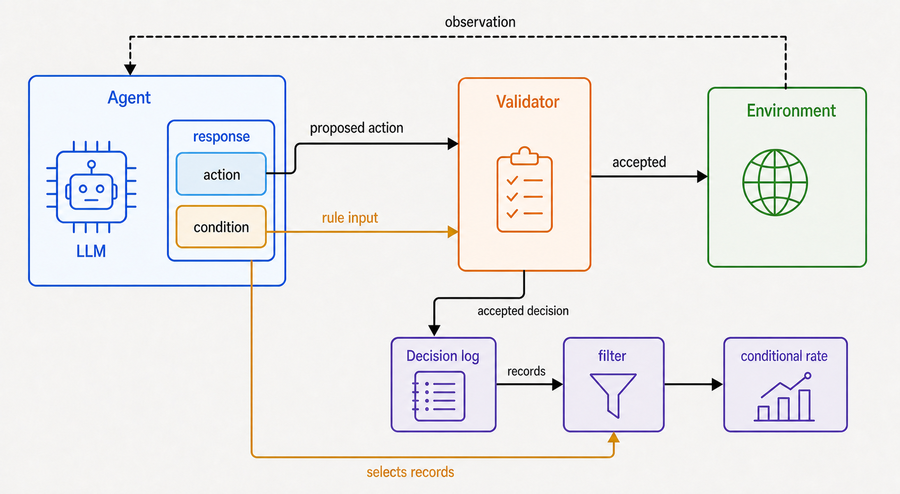
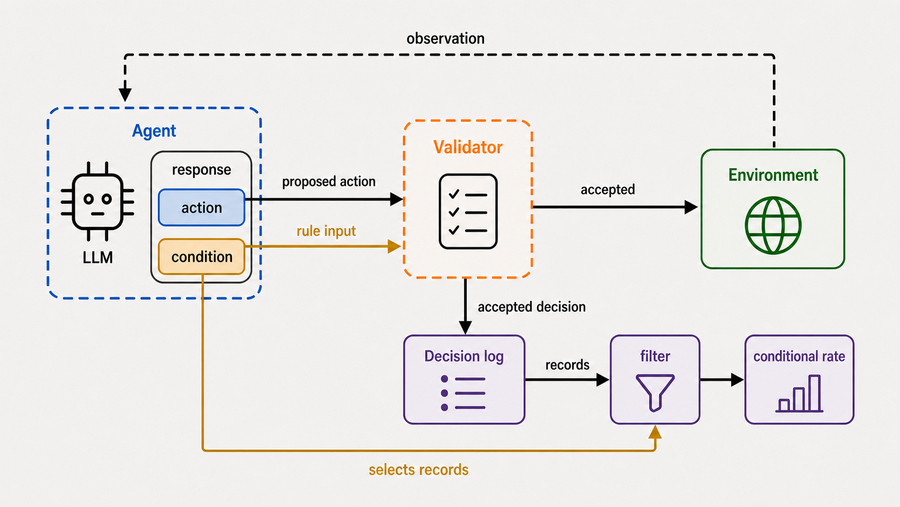
docs(paper): activate agent-paper v2 Figure 1
Regenerate Figure 1 from the audited ReAct, Reflexion, AgentSpec, and SWE-agent figure grammar. Keep the v2 source, active raster, print raster, manifest, handoff, and review records synchronized; anchor proposed action to action and preserve the direct condition-to-filter route.

Checks: figure builder PASS; geometry/hash PASS; manuscript static PASS with official TeX engine unavailable; evidence boundary PASS; code-reviewer APPROVE; adversarial visual review PASS. Official typeset PDF inspection remains an explicit open blocker.

Co-Reviewed-By: code-review skill (trigger 1: staged diff exceeds 50 LOC and touches more than 3 files)

Co-Reviewed-By: code-reviewer subagent (APPROVE)

Changed region(s): [[0.0311, 0.0304, 0.9644, 0.9717]]

diff --git a/ICLR2027/submission/source/figure1_agent_paper.py b/ICLR2027/submission/source/figure1_agent_paper.py
@@ -19,7 +19,7 @@ from PIL import Image
 
 
 ROOT = Path(__file__).resolve().parents[1]
-ASSET = ROOT / "figures" / "assets" / "figure1_architecture_compact_v1.png"
+ASSET = ROOT / "figures" / "assets" / "figure1_architecture_agentpaper_v2.png"
 ACTIVE = ROOT / "figures" / "active"
 OUT = ACTIVE / "figure1_concept"
 
@@ -60,9 +60,9 @@ def build() -> dict[str, object]:
         "print_sha256": print_sha256,
         "canvas_px": [width, height],
         "scale": 1,
-        "pdf_size_in": [6.35, 3.49],
-        "canvas_policy": "warm light-gray paper background; compact single-canvas runtime/measurement architecture with local semantic nodes and no pure-white cards",
-        "style": "generated agent-paper architecture inspired by ReAct, Reflexion, AgentSpec, and SWE-agent: one bounded agent response, an explicit validator insertion point, aligned decision logging, short relation labels, and restrained functional icons",
+        "pdf_size_in": [6.35, 3.58],
+        "canvas_policy": "warm light-gray paper background; compact AgentSpec-style ownership boundaries, tight-to-content nodes, and no pure-white cards",
+        "style": "generated agent-paper architecture inspired by ReAct, Reflexion, AgentSpec, and SWE-agent: one bounded agent response, action-aligned validator insertion, aligned decision logging, short relation labels, and restrained functional icons",
         "text": [
             "Agent", "LLM", "response", "action", "condition", "proposed action",
             "Validator", "rule input", "accepted", "Environment",

diff --git a/ICLR2027/submission/checks/figure1_geometry_check.py b/ICLR2027/submission/checks/figure1_geometry_check.py
@@ -88,9 +88,9 @@ def main() -> int:
             errors.append(f"labels exceed the short-figure limit: {too_long}")
 
         source_asset = ROOT / manifest.get("asset", "")
-        if source_asset.name != "figure1_architecture_compact_v1.png":
+        if source_asset.name != "figure1_architecture_agentpaper_v2.png":
             errors.append(
-                "generated Figure 1 source must remain the reviewed compact v1 asset: "
+                "generated Figure 1 source must remain the reviewed agent-paper v2 asset: "
                 f"{source_asset.name}"
             )
         expected_hashes = {

diff --git a/ICLR2027/submission/REVIEW_ROUNDS.md b/ICLR2027/submission/REVIEW_ROUNDS.md
@@ -318,7 +318,7 @@ Reflexion, AgentSpec, and SWE-agent: a bounded Agent response, a compact
 Validator insertion point, a separate Environment, and a small measurement
 chain.
 
-The selected compact v1 candidate removes the full-canvas lane frames and
+The selected compact v1 candidate removed the full-canvas lane frames and
 headers. Its black `proposed action` connector starts at the `action` field;
 the amber `rule input` connector starts at the right edge of `condition`; and
 the amber `selects records` route starts independently at the bottom edge of
@@ -327,10 +327,32 @@ the log, records flow through the filter, and the observation loop remains
 above the graph. The extra Environment database icon was removed so it cannot
 be confused with the Decision log.
 
-The active generated asset is
+At that historical stage, the active generated asset was
 `figures/assets/figure1_architecture_compact_v1.png`, staged through the normal
 builder. Full-size, paper-width, grayscale, and 900-pixel thumbnail inspection
-passed. The adversarial re-review of the exact current raster passed with no
-semantic, endpoint, overlap, or paper-grammar findings. Official typeset PDF
-inspection remains the release gate because the local environment still lacks a
-TeX engine.
+passed. The compact v1 candidate was then superseded by the agent-paper v2
+candidate to anchor `proposed action` directly to the `action` field. Official
+typeset PDF inspection remains the release gate because the local environment
+still lacks a TeX engine.
+
+## Round 18: agent-paper v2 active integration and endpoint audit
+
+The compact v1 candidate was not retained as the final design. A fresh
+generated candidate was produced from the paper grammar audit: a small dashed
+Agent ownership boundary, a tight response object, a compact Validator
+insertion point, a small Environment node, and a short lower log/filter chain.
+The highlighted `condition` field has two explicit uses: `rule input` enters
+the Validator before execution, while `selects records` enters the filter
+without passing through the Decision log. The black `proposed action` arrow
+was then regenerated so its visible origin is the `action` field itself.
+
+The active generated source is
+`figures/assets/figure1_architecture_agentpaper_v2.png`, with SHA-256
[1 lines of base64/hex data omitted]
+The builder copied the same raster into the manuscript-facing PNG and print
+PNG. Full-size, paper-width, grayscale, and 900-pixel thumbnail inspection
+passed. The adversarial review of the exact active files passed all endpoints,
+overlap checks, information-density checks, and paper-grammar checks; it also
+confirmed that the single-headed dashed observation return is directionally
+unambiguous. Official typeset PDF inspection remains open because the local
+environment still lacks a TeX engine.

diff --git a/ICLR2027/submission/HANDOFF.md b/ICLR2027/submission/HANDOFF.md
@@ -30,7 +30,7 @@ strengthen ICLR generality; no new experiment has yet been run in this package.
 | Anonymous manuscript | `paper\manuscript.tex` |
 | Bibliography | `paper\references.bib` |
 | Figures cited by TeX | `figures\active\` |
-| Figure 1 generated asset | `figures\assets\figure1_architecture_compact_v1.png` |
+| Figure 1 generated asset | `figures\assets\figure1_architecture_agentpaper_v2.png` |
 | Figure 1 staging builder | `source\figure1_agent_paper.py` |
 | Figure 1 builder | `source\figure1_overlay.py` (compatibility entry point) |
 | Figure 1 manifest | `figures\active\figure1_concept.json` |
@@ -46,7 +46,7 @@ strengthen ICLR generality; no new experiment has yet been run in this package.
 
 `figures\active\` is the only directory whose rendered files may be included
 by `paper\manuscript.tex`. `figures\candidates\` contains non-active
-alternatives. `figures\assets\figure1_architecture_compact_v1.png` is the
+alternatives. `figures\assets\figure1_architecture_agentpaper_v2.png` is the
 reviewed source asset for the active generated Figure 1. Legacy and
 intermediate versions are under `figures\candidates\legacy\figure1\` and
 `figures\candidates\architecture-reset-round\`.
@@ -60,18 +60,19 @@ contains a response with `action` and `condition`, the `Validator` sits before
 condition takes a separate amber route directly to `filter`, while logged
 records enter the filter through `records` and feed `conditional rate`.
 
-The active composition is the compact v1 architecture generated after
+The active composition is the agent-paper v2 architecture generated after
 auditing ReAct, Reflexion, AutoGen, AgentSpec, SWE-agent, Voyager, and
 Magentic-One. It uses a single warm-gray canvas with local semantic nodes,
 keeps the response inside the Agent boundary, aligns the accepted-decision
-arrow with `Decision log`, and routes the shared condition directly to
+arrow with `Decision log`, anchors `proposed action` to `action`, and routes the shared condition directly to
 `filter`. It also uses short relation labels, black primary routes, a small
 LLM cue, semantic flat fills, and a top dashed `observation` return lane. The earlier
 dashboard-like and D-v3 compositions are historical and preserved under
 `figures\candidates\legacy\figure1\` and
 `figures\candidates\architecture-reset-round\`.
 
-The generated asset (compact v1, with `proposed action`, an aligned
+The generated asset (agent-paper v2, with `proposed action` anchored at
+`action`, an aligned
 `accepted decision` arrow, direct condition-to-filter routing, and a
 non-crossing observation loop) is visually reviewed at full size, paper-width
 preview, grayscale, and thumbnail size.

diff --git a/ICLR2027/submission/README.md b/ICLR2027/submission/README.md
@@ -22,7 +22,7 @@ paper. Read this file first when returning to the project.
 | Manuscript | `paper/manuscript.tex` |
 | Bibliography | `paper/references.bib` |
 | Figures cited by the manuscript | `figures/active/` |
-| Figure 1 generated asset | `figures/assets/figure1_architecture_compact_v1.png` |
+| Figure 1 generated asset | `figures/assets/figure1_architecture_agentpaper_v2.png` |
 | Figure 1 staging builder | `source/figure1_agent_paper.py` |
 | Figure 1 builder entry point | `source/figure1_overlay.py` compatibility entry point |
 | Figure 1 geometry check | `checks/figure1_geometry_check.py` |
@@ -32,15 +32,15 @@ paper. Read this file first when returning to the project.
 The files in `figures/candidates/` are alternatives only. They are not
 submission figures and must never be referenced by `manuscript.tex`. The
 active Figure 1 is the generated compact composition staged from
-`figures/assets/figure1_architecture_compact_v1.png`.
+`figures/assets/figure1_architecture_agentpaper_v2.png`.
 It follows the reset audit in `AGENT_ARCHITECTURE_FIGURE_RESET.md`: a compact
 Agent → Validator → Environment path, a separate accepted-decision log path,
 and a direct condition → filter route. The observation return is routed above
 the modules so it does not cross the measurement paths.
 
-The current compact v1 places the response inside the Agent boundary and
-aligns the accepted-decision arrow with the Decision log in the compact lower
-measurement path.
+The current agent-paper v2 places the response inside the Agent boundary,
+anchors `proposed action` to the `action` field, and aligns the accepted-
+decision arrow with the Decision log in the compact lower measurement path.
 
 ## Figure workflow
 

diff --git a/ICLR2027/submission/AGENT_ARCHITECTURE_FIGURE_RESET.md b/ICLR2027/submission/AGENT_ARCHITECTURE_FIGURE_RESET.md
@@ -5,8 +5,8 @@
 The earlier D-v3 checkpoint is retired as a design direction. It still reads
 like a colorful inventory of modules: the execution path, measurement path,
 icons, and feedback loop have comparable visual weight. A reviewer must decode
-the layout before seeing the paper's point. The selected compact v1 figure is a
-new single-canvas composition designed from the architecture grammars used in
+the layout before seeing the paper's point. The selected agent-paper v2 figure
+is a new compact composition designed from the architecture grammars used in
 agent papers, not a recolor of the old composition.
 
 ## Message to communicate
@@ -93,11 +93,12 @@ checkpoint.
    highlighted condition to two clearly separated consumers, validator and
    filter, while the action path remains the primary left-to-right trajectory.
 
-The active compact v1 asset is the aligned single-canvas form: the response
-remains inside the Agent boundary, the accepted-decision arrow lands directly
-on the Decision log, and the condition route passes below the log before
-entering the filter. The upper and lower paths are expressed by placement and
-connectors, not by full-canvas lane frames or header banners.
+The active agent-paper v2 asset is the compact ownership-boundary form: the
+response remains inside the Agent boundary, the `proposed action` arrow starts
+at the `action` field, the accepted-decision arrow lands directly on the
+Decision log, and the condition route passes below the log before entering the
+filter. The upper and lower paths are expressed by placement and connectors,
+not by full-canvas lane frames or header banners.
 
 ## Visual constraints
 

diff --git a/ICLR2027/submission/SOURCE_OF_TRUTH.md b/ICLR2027/submission/SOURCE_OF_TRUTH.md
@@ -7,7 +7,7 @@ The active release is the directory containing this file:
 
 - Manuscript source: `paper\manuscript.tex`
 - Bibliography: `paper\references.bib`
-- Figure 1 generated asset: `figures\assets\figure1_architecture_compact_v1.png`
+- Figure 1 generated asset: `figures\assets\figure1_architecture_agentpaper_v2.png`
 - Figure 1 staging builder: `source\figure1_agent_paper.py`
 - Figure 1 compatibility entry point: `source\figure1_overlay.py`
 - Figure 1 contract: `AGENT_ARCHITECTURE_FIGURE_RESET.md`
@@ -35,7 +35,7 @@ submission/
   paper/                 manuscript and bibliography
   figures/active/        only figures referenced by manuscript.tex
   figures/assets/        canonical generated source asset plus historical assets;
-                          only the named compact v1 asset feeds the active builder
+                          only the named agent-paper v2 asset feeds the active builder
   figures/candidates/    non-submission alternatives; never referenced by TeX
   source/                deterministic figure builder and ICLR style files
   checks/                static, geometry, evidence, and reproducibility checks

diff --git a/ICLR2027/submission/figures/candidates/architecture-reset-round/README.md b/ICLR2027/submission/figures/candidates/architecture-reset-round/README.md
@@ -21,9 +21,11 @@ kept for design provenance and are never referenced by the manuscript.
   intermediate before action-edge alignment.
 - `figure1_candidate_D_final_generated_v3.png`: historical D-v3 generated
   candidate; it was the previous active source before the compact v1 reset.
-- `figure1_architecture_compact_v1.png`: current compact single-canvas candidate;
-  the reviewed source is copied to `figures/assets/` and staged as the active
-  manuscript figure.
+- `figure1_architecture_compact_v1.png`: historical compact single-canvas
+  candidate; it was superseded by the agent-paper v2 source below.
+- `figure1_architecture_agentpaper_v2.png`: current compact ownership-boundary
+  candidate; the reviewed source is copied to `figures/assets/` and staged as
+  the active manuscript figure.
 - `legacy_asset_D_v1.png` and `legacy_asset_D_v2.png`: duplicate intermediate
   source copies retained only for provenance.
 

diff --git a/ICLR2027/submission/figures/candidates/agent-paper-round/README.md b/ICLR2027/submission/figures/candidates/agent-paper-round/README.md
@@ -3,7 +3,7 @@
 These candidates were generated after comparing the rendered figures in
 ReAct, Reflexion, AutoGen, and AgentSpec. This is a historical candidate round
 only; none of the files below is active and none is a regeneration source for
-the current compact v1 figure.
+the current agent-paper v2 figure.
 
 - `figure1_candidate_A_loop.png`: rejected; the `rule input` label was placed
   on the wrong downstream arrow and the condition-to-Validator relation was
@@ -25,5 +25,5 @@ The historical F image was copied to
 `figures/assets/figure1_generated_full_final.png` and staged by an earlier
 builder. All labels, arrows, and icons remain part of the generated raster,
 but the D-v3 source is now historical. The active source is
-`figures/assets/figure1_architecture_compact_v1.png`, documented in the
+`figures/assets/figure1_architecture_agentpaper_v2.png`, documented in the
 submission-level reset contract.

diff --git a/ICLR2027/submission/supplement/FIGURE_REGENERATION.md b/ICLR2027/submission/supplement/FIGURE_REGENERATION.md
@@ -9,11 +9,11 @@ python ICLR2027\submission\source\figure1_overlay.py
 python ICLR2027\submission\checks\figure1_geometry_check.py
 ```
 
-Figure 1 is the reviewed compact v1 generated composition based on the reset
+Figure 1 is the reviewed agent-paper v2 generated composition based on the reset
 agent-paper architecture audit. It uses local semantic nodes, an explicit
 Validator insertion point, an accepted-decision arrow aligned to Decision log,
 and a direct condition-to-filter route. The builder stages
-`figures/assets/figure1_architecture_compact_v1.png`; it does not redraw or edit
+`figures/assets/figure1_architecture_agentpaper_v2.png`; it does not redraw or edit
 the image. The geometry check verifies the generated asset and dimensions,
 while text/arrow separation requires the documented visual review because
 those pixels are not machine-addressable geometry.

diff --git a/ICLR2027/submission/SUBMISSION_CHECKLIST.md b/ICLR2027/submission/SUBMISSION_CHECKLIST.md
@@ -8,7 +8,7 @@
 - [x] Main text uses the ICLR 2027 conference style and has no final-copy switch.
 - [x] Abstract, introduction, methods, results, limitations, conclusion,
       bibliography, AI-use, ethics, and reproducibility sections are present.
-- [x] Figure 1 compact v1 has short labels, an action-aligned `proposed action`
+- [x] Figure 1 agent-paper v2 has short labels, an action-aligned `proposed action`
       route, an explicit `accepted decision` arrow that terminates on the
       aligned log, a direct condition-to-filter route, and a non-crossing
       observation loop.

diff --git a/ICLR2027/submission/figures/README.md b/ICLR2027/submission/figures/README.md
@@ -16,7 +16,7 @@ generated raster; it is not an additional paper figure.
 ## Source and alternatives
 
 - `assets/` contains the reviewed full generated Figure 1 asset and historical
-  generation intermediates. Only `figure1_architecture_compact_v1.png` feeds
+  generation intermediates. Only `figure1_architecture_agentpaper_v2.png` feeds
   the active builder.
 - `candidates/` contains the agent-paper candidates and retired Figure 1
   alternatives. These files are kept for comparison only and are never
